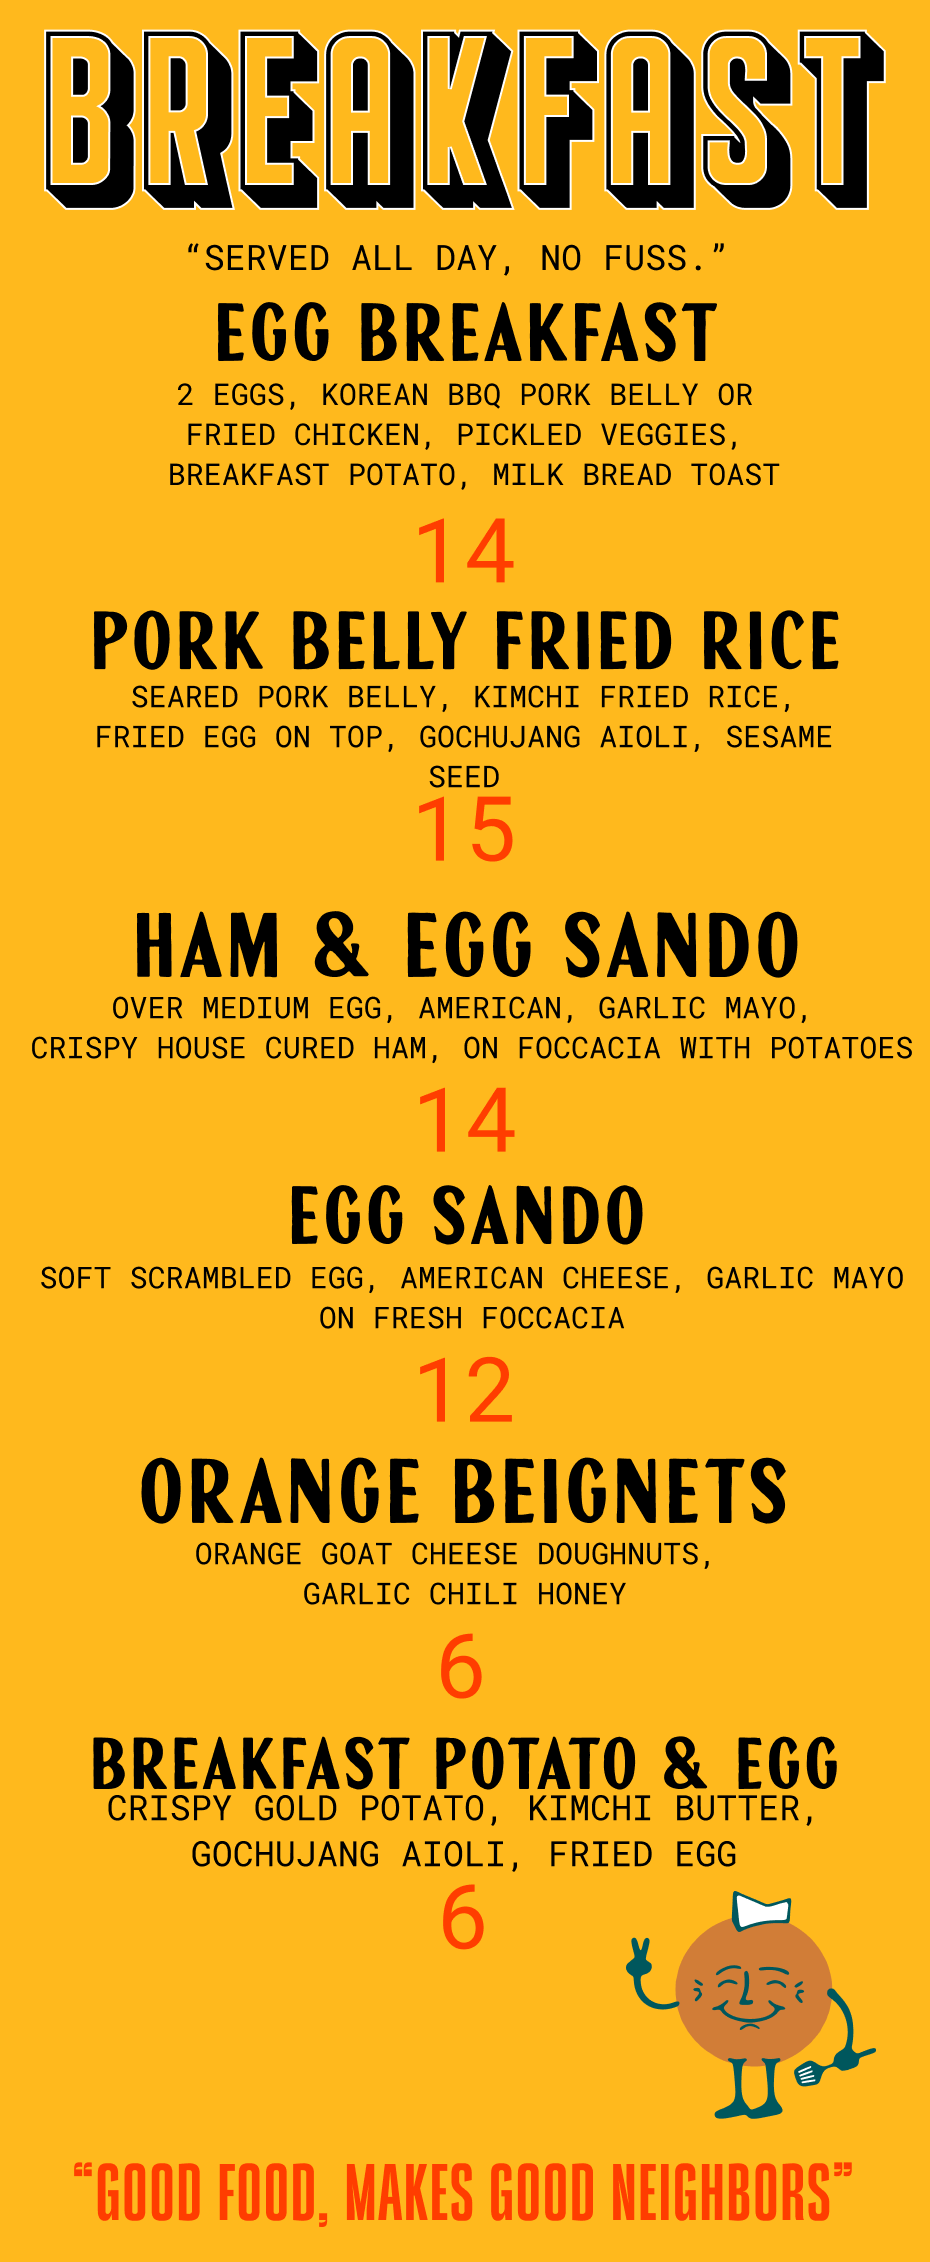
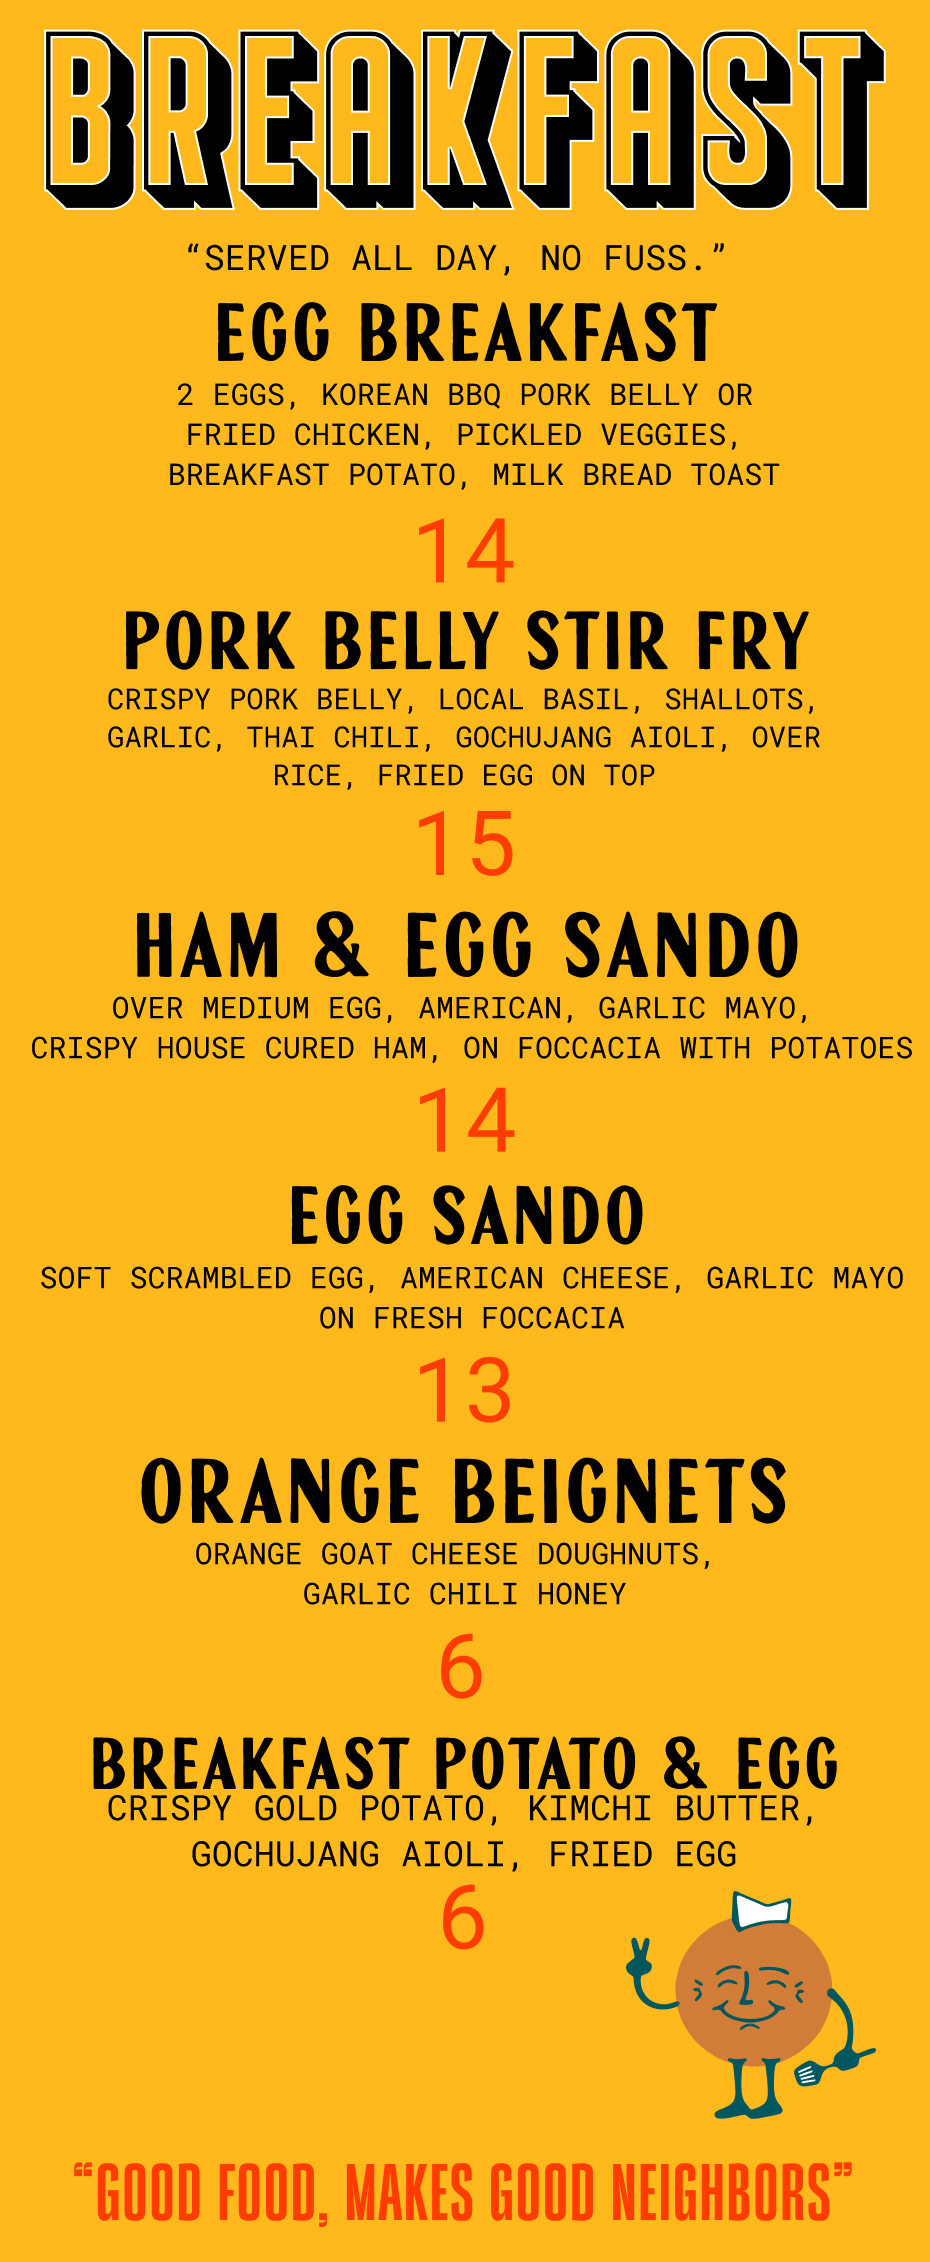
update

Changed region(s): [[0.0935, 0.2476, 0.9043, 0.4023], [0.4989, 0.6189, 0.5613, 0.6499]]

diff --git a/src/components/Navbar/index.js b/src/components/Navbar/index.js
@@ -4,7 +4,11 @@ import { useNavigate } from "react-router-dom";
 
 const menuItems = [
   { label: "Menus", path: "/menus" },
-  { label: "Order", path: "/order" },
+  {
+    label: "Order",
+    external: true,
+    url: "https://order.toasttab.com/online/naked-kitchen-2336-north-liberty-street",
+  },
   { label: "Catering", path: "/catering" },
   { label: "Merch", path: "/merch" },
   { label: "About Us", path: "/about" },
@@ -21,6 +25,7 @@ const Navbar = () => {
     const handleScroll = () => {
       setScrolling(window.scrollY > 315);
     };
+
     window.addEventListener("scroll", handleScroll);
     return () => window.removeEventListener("scroll", handleScroll);
   }, []);
@@ -28,6 +33,16 @@ const Navbar = () => {
   const handleHome = () => {
     setMenuOpen(false);
     navigate("/");
+  };
+
+  const handleMenuClick = (item) => {
+    setMenuOpen(false);
+
+    if (item.external) {
+      window.location.href = item.url;
+    } else {
+      navigate(item.path);
+    }
   };
 
   return (
@@ -82,6 +97,7 @@ const Navbar = () => {
           />
         </button>
       </motion.nav>
+
       {/* FULL SCREEN MENU */}
       <AnimatePresence>
         {menuOpen && (
@@ -98,10 +114,7 @@ const Navbar = () => {
                   initial={{ y: 40, opacity: 0 }}
                   animate={{ y: 0, opacity: 1 }}
                   transition={{ delay: i * 0.08 }}
-                  onClick={() => {
-                    setMenuOpen(false);
-                    navigate(item.path);
-                  }}
+                  onClick={() => handleMenuClick(item)}
                   className="
                     font-benditos
                     text-4xl md:text-6xl

diff --git a/src/App.js b/src/App.js
@@ -224,7 +224,7 @@ function App() {
                 <Route path="/menus" element={<Menu />} />
                 <Route path="/breakfast" element={<MenuBreakfast />} />
                 <Route path="/lunch" element={<MenuLunchDinner />} />
-                <Route path="/drinks" element={<MenuDrinks />} />
+                {/* <Route path="/drinks" element={<MenuDrinks />} /> */}
                 <Route path="/catering" element={<MenuCatering />} />
                 <Route path="/contact" element={<Contact />} />
                 <Route path="/milkbread" element={<Bread />} />

diff --git a/src/components/HoveringImageButton/index.js b/src/components/HoveringImageButton/index.js
@@ -6,7 +6,7 @@ import './styles.css';
 
 const HoveringImageButton = () => {
   const handleButtonClick = () => {
-    window.location.href = '/order';
+    window.location.href = 'https://order.toasttab.com/online/naked-kitchen-2336-north-liberty-street';
   };
 
   return (

diff --git a/src/pages/home.js b/src/pages/home.js
@@ -135,6 +135,7 @@ const Home = () => {
               <p className="font-benditos text-[1rem] md:text-[2rem] leading-tight">
                 Born from the two beliefs that food is medicine and community is medicine.</p>
               <p className="font-benditos text-[1.5rem] md:text-[2.5rem] leading-tight mt-8">We serve western classics transformed with asian ingredients. Asian American food, reinvented with edge, soul, and streetwise creativity. </p>
+              <p className="font-benditos text-[1rem] md:text-[2rem] leading-tight mt-8">Sandwiches on fresh baked bread, pasta with fresh egg noodles, scratch everything, no filler, no fuss</p>
               <p className="font-benditos text-[1rem] md:text-[2rem] leading-tight mt-8">At Naked Kitchen, we use food to tell stories, honor local farmers, and create space for people to slow down and engage. It’s not just about what’s on the plate, but who you’re sharing it with and where it came from.
                 <p className="font-benditos text-[1rem] md:text-[2rem] leading-tight mt-8">Naked Kitchen is owned by Alexandra and Brian, along with their three children, Eleanor, Penny, and Clementine, who inspire our commitment to creating a better sutainable future.</p>
               </p>